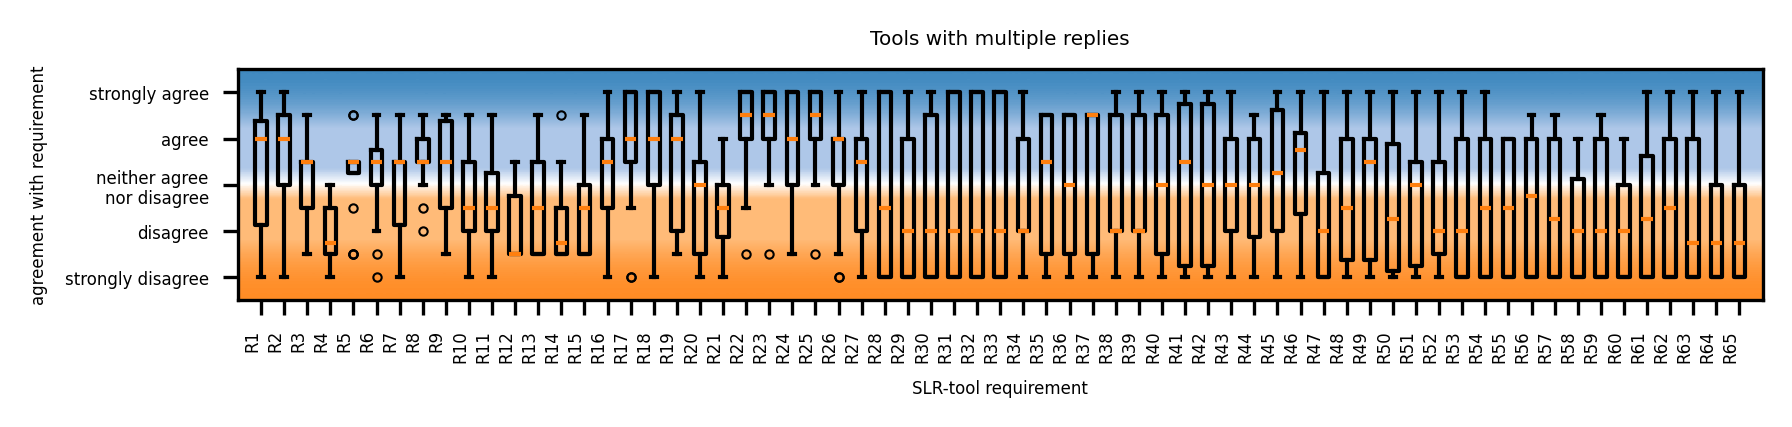
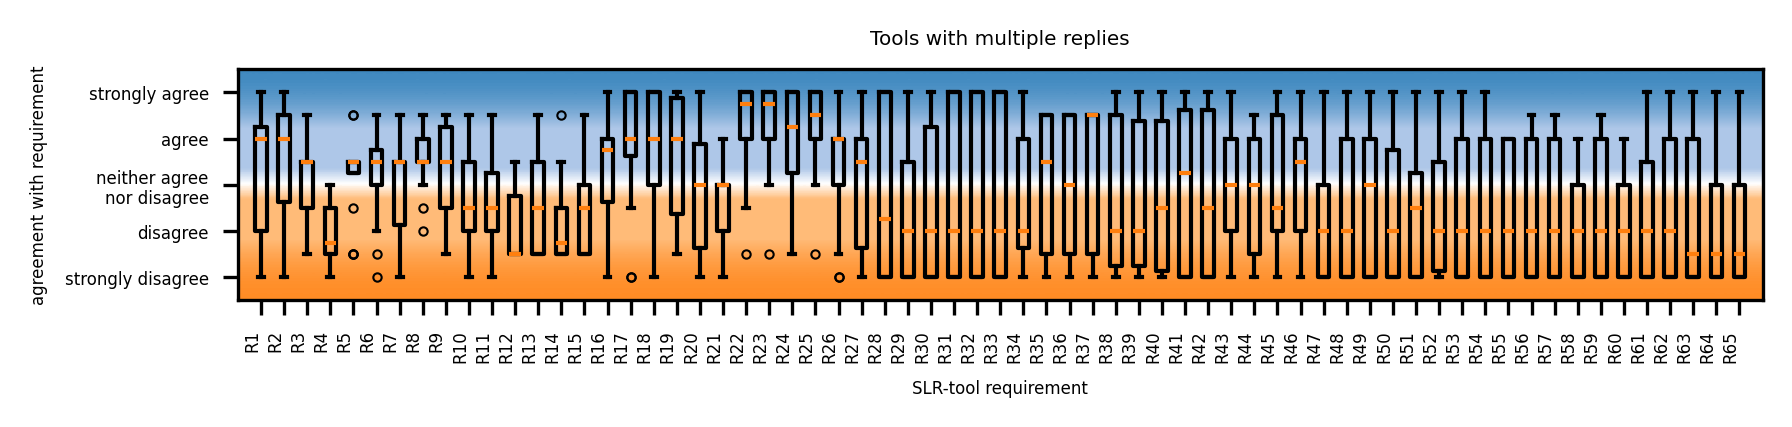
+1 reply

diff --git a/scripts/SWARM-SLR/data/analysis628237.md b/scripts/SWARM-SLR/data/analysis628237.md
@@ -456,3 +456,22 @@ Group time: Reporting: 161.72
 Group time: Demographic data: 23.12
 Group time: Conclusion: 102.35
 
+### Response ID: 72
+#### Tool: Google Scholar
+#### Scores:
+['A9', 'A9', 'A10', 'A10', 'A10', 'A10', 'A10', 'A2', 'A6', 'A10', 'A10', 'A10', 'A10', 'A10', 'A10', 'A1', 'A1', 'A1', 'A1', 'A1', 'A5', 'A1', 'A1', 'A1', 'A1', 'A5', 'A9', 'A9', 'A9', 'A9', 'A9', 'A9', 'A9', 'A9', 'A10', 'A10', 'A10', 'A9', 'A9', 'A9', 'A9', 'A9', 'A9', 'A9', 'A9', 'A9', 'A9', 'A9', 'A9', 'A9', 'A9', 'A9', 'A9', 'A9', 'A9', 'A9', 'A9', 'A9', 'A9', 'A9', 'A9', 'A9', 'A9', 'A9', 'A9']
+#### Time:
+Total time: 457.4
+Groups:
+Group time: Choose your Tool: 25.45
+Group time: Planning a review: 23.92
+Group time: Defining a scope: 113.87
+Group time: Search: 25.75
+Group time: Select: 136.74
+Group time: Evaluate: 34.16
+Group time: Analysis: 9.02
+Group time: Synthesis: 30.66
+Group time: Reporting: 16.19
+Group time: Demographic data: 33.98
+Group time: Conclusion: 7.66
+
